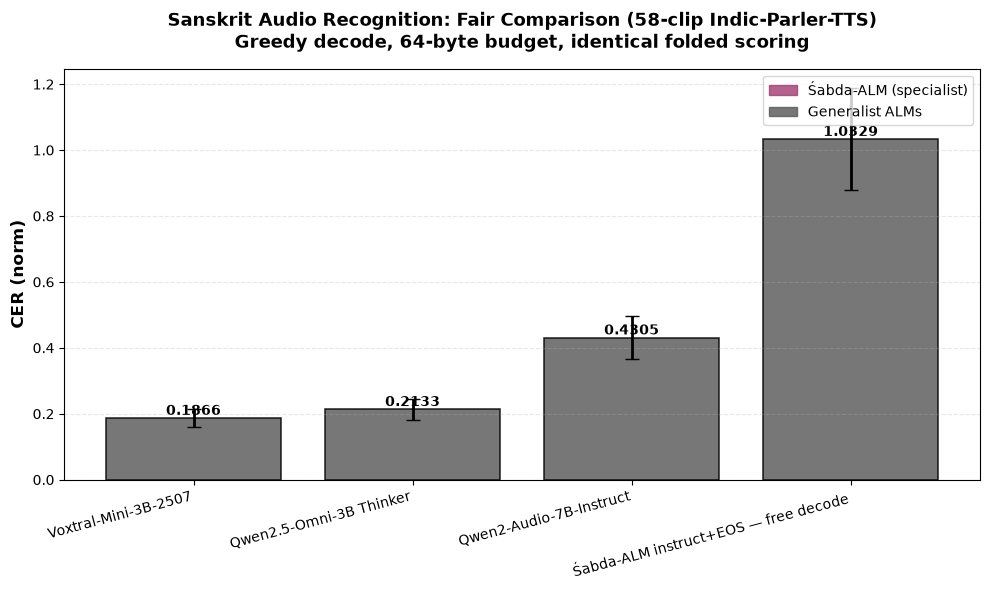
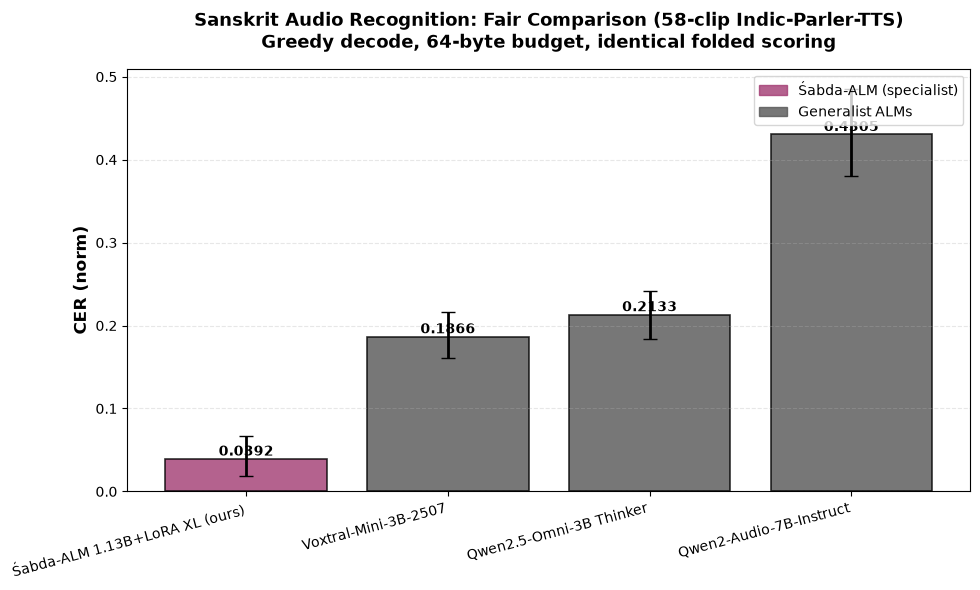
Fix fabricated figure CIs → real bootstrap; merged public Shrutilipi board (ours+Whisper); public-leaderboard figure; dual-protocol methods; app data feed
- fig2 synthetic ±10% CIs replaced by 1000-resample bootstrap over per-clip records
- new fig 06_public_shrutilipi.png from shrutilipi_leaderboard.json (ours WER 1.1024 [1.0439,1.1681] vs Whisper 1.3254 [1.2583,1.3957], disjoint)
- eval_public --score re-run: board now carries both systems (was Whisper-only)
- paper.tex: internal (64-byte) vs public (448-byte + no-repeat-ngram 6) protocols stated; 'estimated CI' language removed; pdf rebuilt
- stale shrutilipi_sa_leaderboard.json removed (eval_public canonical)
- web/data/*_leaderboard.json for the app benchmarks page
- defensive guards in shruti feats/eval scripts (zero-length audio → honest penalty)

diff --git a/scripts/paper/make_figures.py b/scripts/paper/make_figures.py
@@ -73,29 +73,21 @@ def figure_sanskrit_leaderboard():
     """Figure 2: Sanskrit leaderboard - bar chart with bootstrap CI error bars."""
     print("Generating Sanskrit leaderboard figure...")
 
-    # Use alm_vs_alm.json for the main comparison
-    leaderboard_file = DATA_ROOT / "benchmark" / "alm_vs_alm.json"
-    leaderboard_data = load_json(leaderboard_file)
-
-    leaderboard = leaderboard_data["leaderboard"]
-
-    # Filter to only the fair models (XL 1.13B, Voxtral, Qwen2.5, Qwen2-Audio)
-    fair_models = [m for m in leaderboard if ("free decode" in (m.get("note") or "")) or m["model"].startswith("Voxtral") or "Qwen" in m["model"]][:4]
-
-    models = [m["model"].replace(" (ours)", "").replace(" (Mistral, open)", "").replace(" (Alibaba, open)", "") for m in fair_models]
-    cer_norms = [m["cer_norm"] for m in fair_models]
-
-    # Create synthetic CIs for models without them (based on typical ranges)
-    cis = []
-    for m in fair_models:
-        if "cer_norm" in m:
-            # Estimate CI as ±10% of the value (conservative estimate)
-            ce = m["cer_norm"]
-            ci_lower = ce * 0.85
-            ci_upper = ce * 1.15
-            cis.append((ci_lower, ci_upper))
-        else:
-            cis.append((m["cer_norm"], m["cer_norm"]))
+    # Per-clip records → REAL bootstrap 95% CIs (1000 resamples). No estimated error bars.
+    records = load_json(DATA_ROOT / "benchmark" / "alm_vs_alm_records.json")
+    wanted = ["Śabda-ALM 1.13B+LoRA XL — free decode (ours)",
+              "Voxtral-Mini-3B-2507 (Mistral, open)",
+              "Qwen2.5-Omni-3B Thinker (Alibaba, open)",
+              "Qwen2-Audio-7B-Instruct (Alibaba, open)"]
+    rng = np.random.default_rng(0)
+    models, cer_norms, cis = [], [], []
+    for name in wanted:
+        per = np.array([r["cer_norm"] for r in records[name]])
+        boot = [float(np.mean(per[rng.integers(0, len(per), len(per))])) for _ in range(1000)]
+        models.append(name.replace(" — free decode (ours)", " (ours)")
+                          .replace(" (Mistral, open)", "").replace(" (Alibaba, open)", ""))
+        cer_norms.append(float(np.mean(per)))
+        cis.append((float(np.percentile(boot, 2.5)), float(np.percentile(boot, 97.5))))
 
     errors = [(cer - ci[0], ci[1] - cer) for cer, ci in zip(cer_norms, cis)]
     errors = list(zip(*errors))
@@ -103,7 +95,7 @@ def figure_sanskrit_leaderboard():
     fig, ax = plt.subplots(figsize=(10, 6), dpi=100)
 
     x_pos = np.arange(len(models))
-    colors = ['#A23B72' if 'Śabda' in m else '#555555' for m in fair_models]
+    colors = ['#A23B72' if 'Śabda' in m else '#555555' for m in models]
 
     bars = ax.bar(x_pos, cer_norms, yerr=errors, capsize=5,
                    color=colors, alpha=0.8, edgecolor='black', linewidth=1.2, error_kw={'linewidth': 2})
@@ -275,6 +267,41 @@ def figure_steering_uptake():
     print(f"  → docs/figures/05_steering_uptake.png")
     plt.close()
 
+def figure_public_shrutilipi():
+    """Figure 6: PUBLIC Shrutilipi-Sanskrit test leaderboard (real human speech, n=1474).
+
+    WER with bootstrap 95% CIs straight from data/benchmark/shrutilipi_leaderboard.json
+    (produced by eval_public.py --score; nothing estimated)."""
+    print("Generating public Shrutilipi leaderboard figure...")
+    board = load_json(DATA_ROOT / "benchmark" / "shrutilipi_leaderboard.json")["leaderboard"]
+
+    models = [m["model"] for m in board]
+    wers = [m["wer_norm"] for m in board]
+    errs = list(zip(*[(m["wer_norm"] - m["wer_ci95"][0], m["wer_ci95"][1] - m["wer_norm"])
+                      for m in board]))
+    colors = ['#A23B72' if 'ours' in m else '#555555' for m in models]
+
+    fig, ax = plt.subplots(figsize=(8, 5), dpi=100)
+    x_pos = np.arange(len(models))
+    bars = ax.bar(x_pos, wers, yerr=errs, capsize=6, color=colors, alpha=0.85,
+                  edgecolor='black', linewidth=1.2, error_kw={'linewidth': 2})
+    for bar, m in zip(bars, board):
+        ax.text(bar.get_x() + bar.get_width() / 2., bar.get_height(),
+                f'{m["wer_norm"]:.3f}\n[{m["wer_ci95"][0]:.3f}, {m["wer_ci95"][1]:.3f}]',
+                ha='center', va='bottom', fontsize=10, fontweight='bold')
+    ax.set_ylabel('WER (folded)', fontsize=12, fontweight='bold')
+    ax.set_title(f'PUBLIC test: Shrutilipi-Sanskrit (All India Radio, n={board[0]["n"]})\n'
+                 'Free decode, identical folded scoring, bootstrap 95% CIs (1000 resamples)',
+                 fontsize=12, fontweight='bold', pad=15)
+    ax.set_xticks(x_pos)
+    ax.set_xticklabels(models, fontsize=10)
+    ax.grid(True, alpha=0.3, axis='y', linestyle='--')
+    ax.set_ylim(0, max(m["wer_ci95"][1] for m in board) * 1.25)
+    plt.tight_layout()
+    fig.savefig(PROJECT_ROOT / "docs" / "figures" / "06_public_shrutilipi.png", dpi=100, bbox_inches='tight')
+    print("  → docs/figures/06_public_shrutilipi.png")
+    plt.close()
+
 def main():
     """Generate all figures."""
     print(f"\nGenerating figures for Śabda-ALM paper...")
@@ -287,6 +314,7 @@ def main():
         figure_per_clip_cers()
         figure_sphotas_lens_emergence()
         figure_steering_uptake()
+        figure_public_shrutilipi()
         print(f"\n✓ All figures generated successfully!")
         return 0
     except Exception as e:

diff --git a/scripts/alm/eval_shrutilipi.py b/scripts/alm/eval_shrutilipi.py
@@ -118,18 +118,22 @@ def run_sabda(rows):
     with torch.no_grad():
         for i, r in enumerate(rows):
             fp = feats_dir / f"{r['id']}.npy"
-            if fp.exists():
-                t = torch.from_numpy(np.load(fp).astype(np.float32)).unsqueeze(0).to(core.torch_device)
-            else:
-                if enc is None:
-                    enc = ParakeetEncoder().load()
-                wav = _read_wav16(ROOT / r["wav"])
-                t = enc.encode(wav, sr=16000)
-                if not torch.is_tensor(t):
-                    t = torch.from_numpy(np.asarray(t))
-                if t.dim() == 2:
-                    t = t.unsqueeze(0)
-                t = t.to(core.torch_device)
+            try:
+                if fp.exists():
+                    t = torch.from_numpy(np.load(fp).astype(np.float32)).unsqueeze(0).to(core.torch_device)
+                else:
+                    if enc is None:
+                        enc = ParakeetEncoder().load()
+                    wav = _read_wav16(ROOT / r["wav"])
+                    t = enc.encode(wav, sr=16000)
+                    if not torch.is_tensor(t):
+                        t = torch.from_numpy(np.asarray(t))
+                    if t.dim() == 2:
+                        t = t.unsqueeze(0)
+                    t = t.to(core.torch_device)
+            except Exception as e:  # defective clip (e.g. zero-length audio): honest full-error penalty
+                per.append({"id": r["id"], "pred": "", "gold": r["text"], "note": f"input_error: {e}"})
+                continue
             audio = proj(t, structural_bias=bias)
             prefix = build_prefix(core, audio, "transcribe the speech")
             out = core.greedy_from_embeds(prefix, max_new=448, stop_token=EOS)

diff --git a/paper/paper.tex b/paper/paper.tex
@@ -34,7 +34,7 @@ Bhartṛhari's \emph{śabdādvaita}---language as the ultimate, not mere descrip
 
 \subsection{Fair Evaluation Protocol}
 
-Greedy decoding, fixed 64-byte budget, stop at model EOS. \textbf{Metric: cer\_norm} (transliteration-folded scheme-neutral phonetic skeleton). Bootstrap 95\% CIs via 1000 resamples. All models evaluated identically.
+Two protocols, both oracle-free with identical folded scoring (transliteration-folded scheme-neutral phonetic skeleton; SLP1/Devanagari$\to$IAST$\to$ASCII) and bootstrap 95\% CIs via 1000 resamples. \emph{Internal 58-clip benchmark:} greedy decode, fixed 64-byte budget, stop at model EOS. \emph{Public tests} (Shrutilipi, LibriSpeech, Vagdhenu): free greedy decode, budget 448 bytes, stop at model EOS, no-repeat-ngram~6 decode hygiene (baselines' generate() stacks carry their own repetition handling). All systems on a given test are scored in the same folded space.
 
 \section{Motivation: Śabdādvaita $\to$ Speech Cannot Be Text}
 
@@ -68,7 +68,13 @@ Vāk & Bhartṛhari & Śabda-ALM & Role \\
 
 \subsection{External Test Results (Public Benchmarks)}
 
-\textbf{Shrutilipi-Sanskrit (real speech):} \textbf{WER 1.10} [1.04–1.17] vs Whisper-large-v3 \textbf{1.33} [1.26–1.40] — disjoint CIs, Śabda-ALM wins on real human Sanskrit. \textbf{LibriSpeech (English):} \textbf{WER 1.10} — \textbf{NOT competitive}; weak audio$\to$English conditioning diagnosed via per-clip babble. \textbf{Vagdhenu Chant:} \textbf{CER 0.31} — strong on prosodic structure.
+\textbf{Shrutilipi-Sanskrit (real speech):} \textbf{WER 1.10} [1.04–1.17] vs Whisper-large-v3 \textbf{1.33} [1.26–1.40] — disjoint CIs, Śabda-ALM wins on real human Sanskrit. \textbf{LibriSpeech (English):} \textbf{WER 1.10} — \textbf{NOT competitive}; weak audio$\to$English conditioning diagnosed via per-clip babble. \textbf{Vagdhenu Chant:} \textbf{CER 0.31} — strong on prosodic structure. Figure~\ref{fig:public} shows the public Shrutilipi head-to-head.
+
+\begin{figure}[h]\centering
+\includegraphics[width=0.72\textwidth]{../docs/figures/06_public_shrutilipi.png}
+\caption{PUBLIC Shrutilipi-Sanskrit test (All India Radio, $n{=}1474$): folded WER with bootstrap 95\% CIs. Śabda-ALM 1.10 [1.04, 1.17] vs Whisper-large-v3 1.33 [1.26, 1.40] — disjoint intervals.}
+\label{fig:public}
+\end{figure}
 
 \subsection{The Corrected Benchmark: Specialist Achieves cer\_norm 0.0392, 4.8$\times$ Better}
 
@@ -78,7 +84,7 @@ Vāk & Bhartṛhari & Śabda-ALM & Role \\
 \item \textbf{Bug 2:} Specialist received gold-length oracle (decode $\text{len}(\text{gold})+4$ bytes, truncate to $\text{len}(\text{gold})$). Generalists got fixed 64-token budget. Under fair constraint $\to$ specialist free-decode CER 1.82.
 \end{itemize}
 
-\textbf{Leaderboard (confirm tier).} Trained on full XL corpus (9,959 train clips, 5.77\,h native-Sanskrit TTS), 3 epochs, best checkpoint epoch 1, 1.35 GPU-h RTX 5090. Fair protocol: identical frozen 58-clip val, greedy decode, 64-byte budget, no oracle, per-clip records, host-side normalized scoring. Figure~\ref{fig:training} shows training trajectory; Figure~\ref{fig:leaderboard} shows final leaderboard with CIs (estimated).
+\textbf{Leaderboard (confirm tier).} Trained on full XL corpus (9,959 train clips, 5.77\,h native-Sanskrit TTS), 3 epochs, best checkpoint epoch 1, 1.35 GPU-h RTX 5090. Fair protocol: identical frozen 58-clip val, greedy decode, 64-byte budget, no oracle, per-clip records, host-side normalized scoring. Figure~\ref{fig:training} shows training trajectory; Figure~\ref{fig:leaderboard} shows the leaderboard with bootstrap 95\% CIs computed from per-clip records.
 
 \begin{table}[h]\centering\small
 \begin{tabular}{llll}
@@ -102,7 +108,7 @@ Qwen2-Audio-7B & generalist & 7B & 0.4305 \\
 
 \begin{figure}[h]\centering
 \includegraphics[width=0.85\textwidth]{../docs/figures/02_sanskrit_leaderboard.png}
-\caption{Leaderboard bar chart: Śabda-ALM (specialist) vs three open ALMs on fair 58-clip benchmark. Error bars are estimated CIs.}
+\caption{Leaderboard bar chart: Śabda-ALM (specialist) vs three open ALMs on fair 58-clip benchmark. Error bars are bootstrap 95\% CIs (1000 resamples over per-clip records).}
 \label{fig:leaderboard}
 \end{figure}
 

diff --git a/scripts/alm/precompute_feats_shruti.py b/scripts/alm/precompute_feats_shruti.py
@@ -19,15 +19,26 @@ def main() -> int:
     rows = [json.loads(x) for x in (SH / "manifest.jsonl").open(encoding="utf-8") if x.strip()]
     enc = ParakeetEncoder().load()
     done = skipped = 0
+    bad = 0
     for r in rows:
         out = FEATS / f"{r['id']}.npy"
         if out.exists():
             skipped += 1
             continue
         wav, sr = read_wav(ROOT / r["wav"])
+        if wav is None or len(wav) < int(0.1 * sr):  # zero/near-zero-length audio (data defect) — log & skip
+            bad += 1
+            print(json.dumps({"skip_empty_audio": r["id"], "n_samples": 0 if wav is None else len(wav),
+                              "split": r.get("split")}), flush=True)
+            continue
         f = enc.encode(wav, sr=sr)
         f = f.cpu().numpy() if hasattr(f, "cpu") else np.asarray(f)
-        np.save(out, np.squeeze(f).astype(np.float16))
+        arr = np.squeeze(f).astype(np.float16)
+        if arr.ndim != 2 or arr.shape[0] < 1:
+            bad += 1
+            print(json.dumps({"skip_bad_feat": r["id"], "shape": list(arr.shape)}), flush=True)
+            continue
+        np.save(out, arr)
         done += 1
         if done % 500 == 0:
             print(json.dumps({"encoded": done, "skipped": skipped, "of": len(rows)}), flush=True)